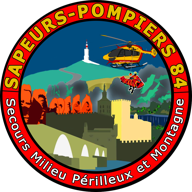
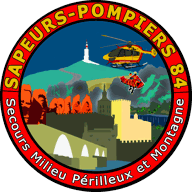
Chargement accéléré : démarrage immédiat sur le cache, profil rafraîchi en arrière-plan (me et options en parallèle), délai max des requêtes, service worker cache d'abord, images allégées (écusson 820 Ko → 9 Ko)
Claude-Session: https://claude.ai/code/session_01MrYUG5oG6D1TZs9XeJxHqS

Changed region(s): [[0.8125, 0.8125, 0.8438, 0.8438], [0.6875, 0.375, 0.7188, 0.4062], [0.6875, 0.3125, 0.7188, 0.3438]]

diff --git a/app.js b/app.js
@@ -63,20 +63,32 @@
   // ---------- API ----------
   class NetworkError extends Error {}
 
+  // Délai maximal d'une requête : sur un réseau très lent, on bascule sur les données
+  // de l'appareil au lieu d'attendre indéfiniment. Les envois (déclarations, décisions)
+  // ont un délai plus long : ils portent un identifiant qui évite les doublons au renvoi.
+  const API_TIMEOUT = 20000;
+  const API_TIMEOUT_LONG = 60000;
+  const LONG_ACTIONS = /(_submit|_update|_decide|^update_me$|^login$|^verify_code$|^request_code$)/;
+
   async function api(action, payload = {}) {
     let res;
+    const ctrl = typeof AbortController === 'function' ? new AbortController() : null;
+    const timer = ctrl ? setTimeout(() => ctrl.abort(), LONG_ACTIONS.test(action) ? API_TIMEOUT_LONG : API_TIMEOUT) : null;
     try {
       // text/plain : évite la requête préliminaire CORS, non gérée par Apps Script
       res = await fetch(API_URL, {
         method: 'POST',
         headers: { 'Content-Type': 'text/plain;charset=utf-8' },
         body: JSON.stringify({ action, ...payload }),
+        signal: ctrl ? ctrl.signal : undefined,
       });
     } catch (e) {
-      throw new NetworkError('Réseau indisponible');
+      clearTimeout(timer);
+      throw new NetworkError(e && e.name === 'AbortError' ? 'Réseau trop lent' : 'Réseau indisponible');
     }
     let data;
     try { data = await res.json(); } catch (e) { throw new NetworkError('Réponse inattendue du serveur'); }
+    finally { clearTimeout(timer); }
     if (!data.ok) throw new Error(data.error || 'Erreur');
     return data;
   }
@@ -282,18 +294,50 @@
       if (cached) return enterApp(cached.data, cached.options, true);
       return show('login');
     }
+    // Démarrage immédiat sur les données de l'appareil : le profil est rafraîchi en arrière-plan
+    if (cached && cached.data) {
+      enterApp(cached.data, cached.options, false);
+      return refreshProfile(token, cached);
+    }
     try {
-      const data = await api('me', { token });
-      let options = (cached && cached.options) || null;
-      try { options = (await api('options', { token })); } catch (e) { /* on garde l'ancien */ }
+      const [data, options] = await fetchProfile(token, null);
       store.set(KEY_CACHE, JSON.stringify({ data, options }));
       enterApp(data, options, false);
     } catch (e) {
-      if (e instanceof NetworkError && cached) return enterApp(cached.data, cached.options, true);
       if (e instanceof NetworkError) { prefillEmail(); return show('login'); }
       if (AUTH_ERRORS.includes(e.message)) { logout(); return; }
       prefillEmail();
       show('login');
+    }
+  }
+
+  // Profil et listes de choix demandés en parallèle (et non plus l'un après l'autre)
+  async function fetchProfile(token, oldOptions) {
+    const pOptions = api('options', { token }).catch(() => oldOptions);
+    const data = await api('me', { token });
+    return [data, await pOptions];
+  }
+
+  // Rafraîchissement silencieux après un démarrage sur le cache
+  async function refreshProfile(token, cached) {
+    document.body.classList.add('profile-syncing');
+    try {
+      const [data, options] = await fetchProfile(token, cached.options || null);
+      if (store.get(KEY_TOKEN) !== token) return;           // déconnecté entre-temps
+      store.set(KEY_CACHE, JSON.stringify({ data, options }));
+      state.data = data;
+      state.options = options;
+      setOffline(false);
+      const form = $('#form-profil');
+      // ne pas écraser une saisie en cours dans « Mes informations »
+      if (!(form && form.contains(document.activeElement))) renderApp();
+      if (window.SMPM_CARTE) window.SMPM_CARTE.setAllowed(canDeclare(data.session));
+      if (state.page && !allowedPage(state.page, data.session)) gotoPage(isIntervention() ? 'accueil' : 'livret');
+    } catch (e) {
+      if (AUTH_ERRORS.includes(e.message)) { logout(); return; }
+      if (e instanceof NetworkError) setOffline(true);
+    } finally {
+      document.body.classList.remove('profile-syncing');
     }
   }
 

diff --git a/sw.js b/sw.js
@@ -1,21 +1,24 @@
 // Service worker.
-// - Squelette de l'application : réseau d'abord, cache en secours hors ligne.
+// - Squelette de l'application : servi immédiatement depuis le cache, mis à jour en arrière-plan
+//   (nouvelle version visible au lancement suivant). Changer CACHE à chaque déploiement force
+//   une mise à jour complète et cohérente de tous les fichiers.
 // - Fiches techniques : cache dédié (smpm84-fiches) rempli par fiches.js ; lecture hors ligne.
 // - Carte hors ligne : cache dédié (smpm84-carte) rempli par carte-hors-ligne.js à la demande ; jamais rempli ici.
 // Les données personnelles ne passent jamais par ce cache (elles sont dans localStorage).
-const CACHE = 'smpm84-shell-v33';
+const CACHE = 'smpm84-shell-v34';
 const FICHES_CACHE = 'smpm84-fiches';
 const CARTE_CACHE = 'smpm84-carte';
 const SHELL = [
   './', 'index.html', 'style.css', 'app.js', 'fiches.js', 'fmpa.js', 'fmpa-list.js', 'intervention-list.js', 'fmpa-valid.js', 'livret-remplir.js', 'carte-hors-ligne.js', 'config.js', 'manifest.webmanifest',
   'vendor/leaflet/leaflet.js', 'vendor/leaflet/leaflet.css', 'vendor/leaflet/images/layers.png', 'vendor/leaflet/images/layers-2x.png',
   'vendor/leaflet/images/marker-icon.png', 'vendor/leaflet/images/marker-icon-2x.png', 'vendor/leaflet/images/marker-shadow.png',
-  'assets/ecusson.png', 'assets/sdis84.png', 'assets/icon-192.png', 'assets/icon-512.png',
-  'assets/banniere.jpg', 'assets/banniere-1000.jpg',
+  'assets/ecusson-132.png', 'assets/sdis84-210.png', 'assets/icon-192.png',
+  'assets/banniere-700.jpg', 'assets/banniere-1000.jpg',
 ];
 
 self.addEventListener('install', e => {
-  e.waitUntil(caches.open(CACHE).then(c => c.addAll(SHELL)).then(() => self.skipWaiting()));
+  // cache: 'reload' : contourne le cache HTTP du navigateur pour récupérer la version déployée
+  e.waitUntil(caches.open(CACHE).then(c => c.addAll(SHELL.map(u => new Request(u, { cache: 'reload' })))).then(() => self.skipWaiting()));
 });
 
 self.addEventListener('activate', e => {
@@ -54,14 +57,18 @@ self.addEventListener('fetch', e => {
     return;
   }
 
-  // Réseau d'abord (toujours la dernière version), cache en secours hors ligne
-  e.respondWith(
-    fetch(req)
-      .then(res => {
-        const copy = res.clone();
-        caches.open(CACHE).then(c => c.put(req, copy));
-        return res;
-      })
-      .catch(() => caches.match(req).then(r => r || caches.match('index.html')))
-  );
+  // Cache d'abord (affichage immédiat même sur réseau lent), mise à jour en arrière-plan
+  const isNav = req.mode === 'navigate';
+  e.respondWith(caches.open(CACHE).then(async cache => {
+    const cached = await cache.match(req, { ignoreSearch: isNav }) || (isNav ? await cache.match('index.html') : null);
+    const network = fetch(req).then(res => {
+      if (res && res.ok && res.type === 'basic') cache.put(req, res.clone());
+      return res;
+    });
+    if (cached) {
+      e.waitUntil(network.catch(() => {}));
+      return cached;
+    }
+    return network.catch(() => cache.match('index.html'));
+  }));
 });

diff --git a/index.html b/index.html
@@ -6,6 +6,9 @@
 <meta name="theme-color" id="meta-theme" content="#1d4f91">
 <meta name="robots" content="noindex">
 <title>SMPM 84</title>
+<!-- Ouverture anticipée de la connexion à l'API (Apps Script répond via googleusercontent) -->
+<link rel="preconnect" href="https://script.google.com" crossorigin>
+<link rel="preconnect" href="https://script.googleusercontent.com" crossorigin>
 <link rel="manifest" href="manifest.webmanifest">
 <link rel="icon" href="assets/icon-192.png">
 <link rel="apple-touch-icon" href="assets/icon-192.png">
@@ -18,7 +21,7 @@
     <span class="sync-dot" data-sync-dot hidden></span>
     <span class="pending-dot" title="Déclaration en attente d'envoi" hidden></span>
   </button>
-  <img src="assets/ecusson.png" alt="" class="logo">
+  <img src="assets/ecusson-132.png" alt="" class="logo" width="44" height="44">
   <button type="button" id="btn-identity" class="brand" disabled><strong id="top-title">SMPM 84</strong><span id="top-sub">Secours en milieu périlleux et montagne</span></button>
   <div class="status" aria-live="polite">
     <span class="status-net">
@@ -35,7 +38,7 @@
 
 <!-- Bannière : mont Ventoux, équipe SMPM, hélicoptère et civière sur tyrolienne -->
 <div class="landscape" aria-hidden="true">
-  <img src="assets/banniere.jpg" srcset="assets/banniere-1000.jpg 1000w, assets/banniere.jpg 2000w" sizes="100vw" alt="" decoding="async" fetchpriority="high">
+  <img src="assets/banniere.jpg" srcset="assets/banniere-700.jpg 700w, assets/banniere-1000.jpg 1000w, assets/banniere-1400.jpg 1400w, assets/banniere.jpg 2000w" sizes="100vw" alt="" decoding="async" fetchpriority="high">
 </div>
 
 <div id="offline-banner" class="banner" hidden>Mode hors ligne : vous pouvez continuer à utiliser l'application. Les données saisies seront envoyées au retour du réseau.</div>
@@ -44,7 +47,7 @@
 <div id="scrim" class="scrim" hidden></div>
 <aside id="drawer" class="drawer" aria-label="Menu principal">
   <div class="drawer-head">
-    <img src="assets/ecusson.png" alt="" class="logo">
+    <img src="assets/ecusson-132.png" alt="" class="logo" width="44" height="44">
     <strong>SMPM 84</strong>
     <button id="btn-close" class="close" aria-label="Fermer le menu">×</button>
   </div>
@@ -391,7 +394,7 @@
 </main>
 
 <footer>
-  <img src="assets/sdis84.png" alt="Sapeurs-pompiers de Vaucluse – SDIS 84">
+  <img src="assets/sdis84-210.png" width="70" height="54" loading="lazy" decoding="async" alt="Sapeurs-pompiers de Vaucluse – SDIS 84">
 </footer>
 
 <script src="config.js"></script>

diff --git a/style.css b/style.css
@@ -236,7 +236,7 @@ body.is-offline .status-net { color: #ffd66b; }
 
 /* ---------- fiches techniques ---------- */
 .sync-icon { transform-origin: 50% 50%; }
-.fiches-syncing .sync-icon { animation: spin 1s linear infinite; }
+.fiches-syncing .sync-icon, .profile-syncing .sync-icon { animation: spin 1s linear infinite; }
 .sync-dot {
   position: absolute; top: 4px; right: 4px; width: 10px; height: 10px; border-radius: 50%;
   background: #f5c518; box-shadow: 0 0 0 2px var(--primary);
@@ -245,7 +245,7 @@ body.is-offline .status-net { color: #ffd66b; }
 @keyframes spin { to { transform: rotate(360deg); } }
 @keyframes pulse { 50% { transform: scale(1.5); opacity: .6; } }
 @media (prefers-reduced-motion: reduce) {
-  .fiches-syncing .sync-icon, .sync-dot { animation: none; }
+  .fiches-syncing .sync-icon, .profile-syncing .sync-icon, .sync-dot { animation: none; }
 }
 .fiches-cat { font-size: 1rem; margin: 18px 0 8px; color: var(--primary-dark); }
 @media (prefers-color-scheme: dark) { .fiches-cat { color: #cfe2fb; } }

diff --git a/CLAUDE.md b/CLAUDE.md
@@ -4,3 +4,5 @@
 - **Notices par rôle (`docs/notices/`)** : à chaque évolution visible par un utilisateur (rubrique, droits, comportement, libellé), mettre à jour dans le même commit la ou les notices concernées, le tableau « Qui a accès à quoi » de `docs/notices/README.md` et la date « Dernière mise à jour » en tête des fichiers modifiés.
 - Rôles : équipier, chef d'unité, chef de section, conseiller technique (`ctd`), administrateur (`admin` ou case `is_admin`). Droits définis dans `app.js` (`canDeclare`, `canSectorFmpa`, `canAllFmpa`) et `backend/Fmpa.gs`.
 - Textes de l'application et de la documentation en français.
+- **Service worker** : l'application est servie depuis le cache puis mise à jour en arrière-plan. À chaque modification d'un fichier de l'application (HTML, CSS, JS, images), incrémenter `CACHE` dans `sw.js` (`smpm84-shell-vNN`) et ajouter tout nouveau fichier indispensable hors ligne à `SHELL`.
+- **Images** : ne jamais afficher une image plus lourde que nécessaire (l'écusson affiché fait 44 px : `assets/ecusson-132.png`).
